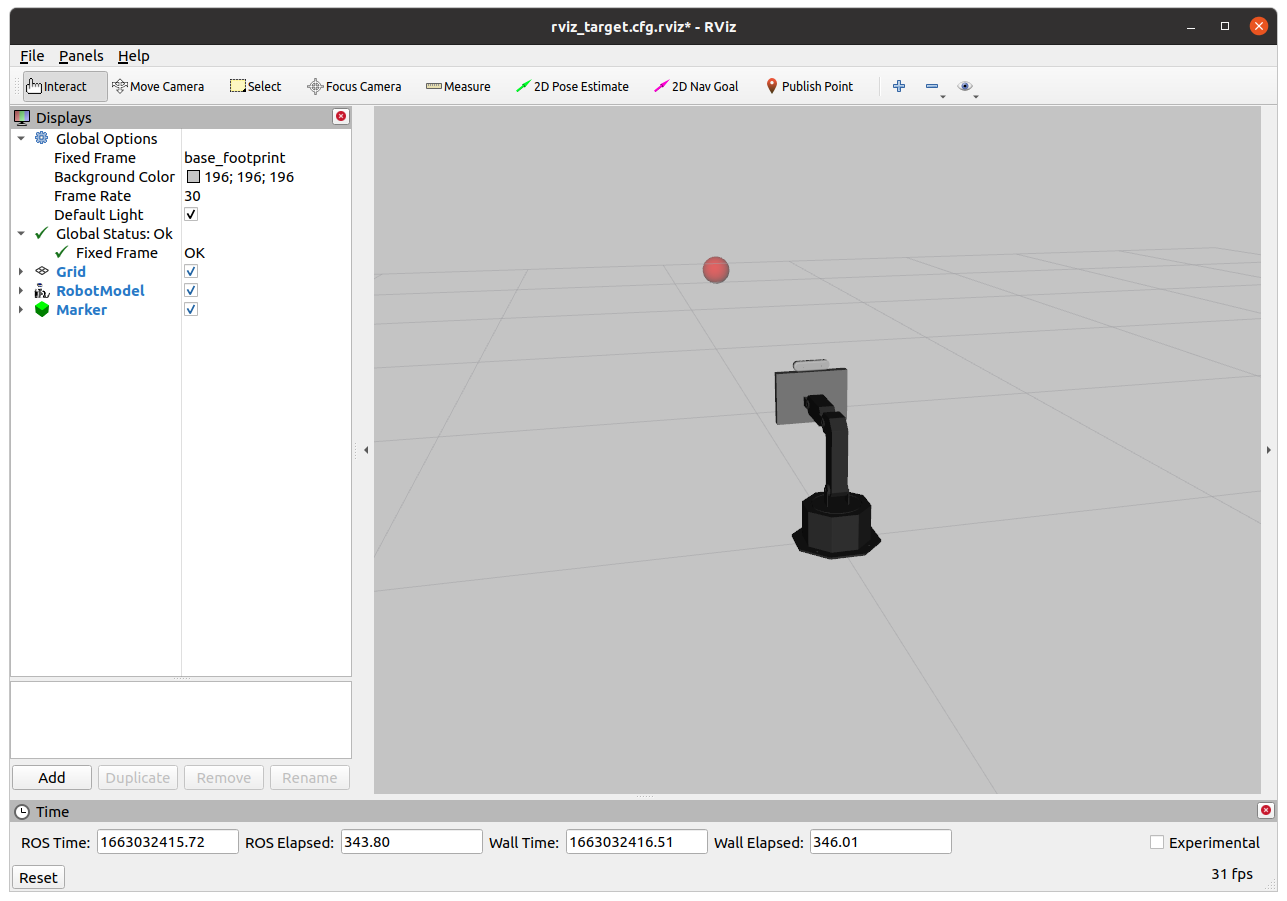
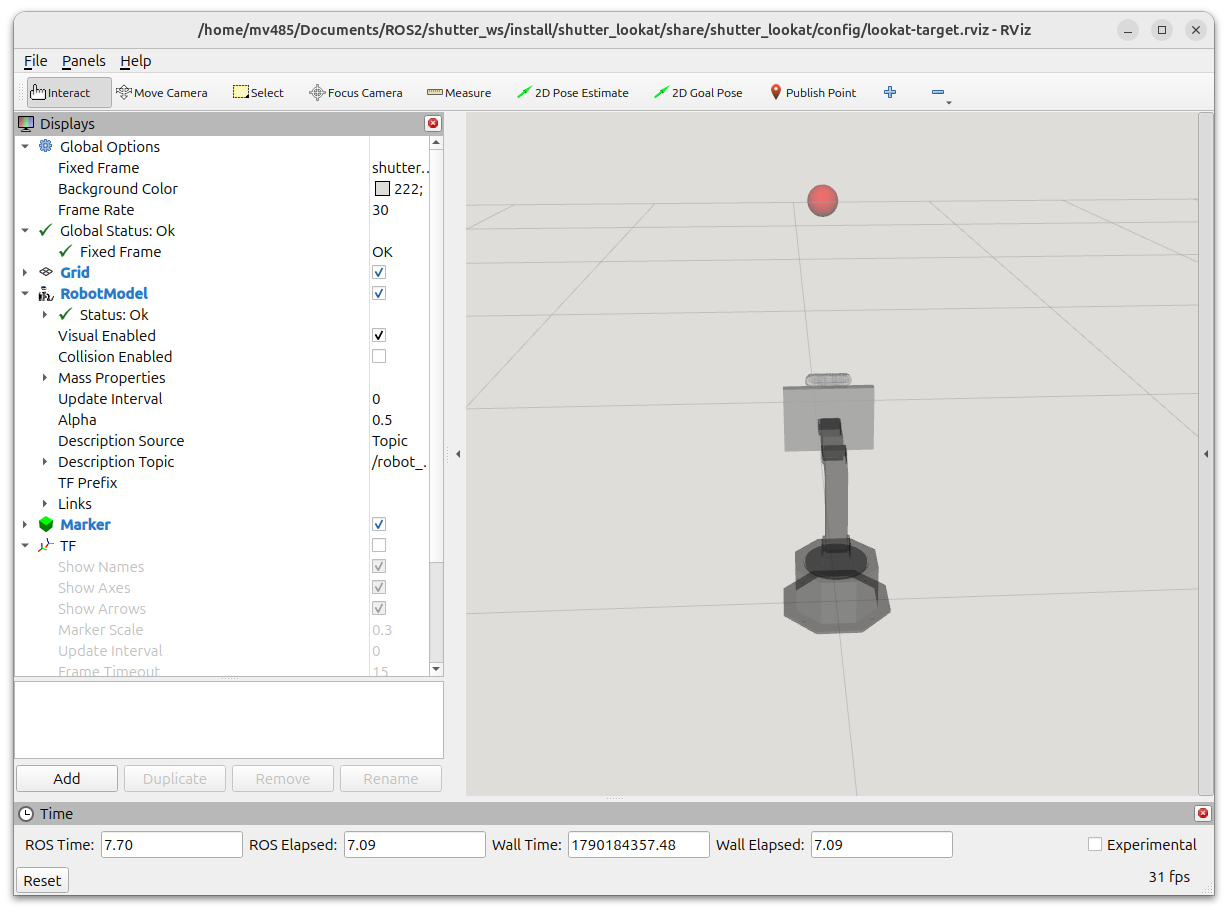
updated rviz config

diff --git a/assignment-1/shutter_lookat/launch/generate_target.launch.py b/assignment-1/shutter_lookat/launch/generate_target.launch.py
@@ -12,8 +12,9 @@ publishing timer is driven by the same clock. Without it the target would be
 stamped in wall time while the robot's transforms carry simulated time, and RViz
 would drop the marker as an extrapolation error.
 
-RViz comes from start_sim.launch.py, whose config/shutter-model.rviz already
-subscribes to /target_marker, so the target shows up without a second RViz here.
+RViz comes from start_sim.launch.py, which is handed config/lookat-target.rviz
+here -- that config already subscribes to /target_marker, so the target shows up
+without a second RViz.
 
 Usage:
     ros2 launch shutter_lookat generate_target.launch.py
@@ -68,6 +69,17 @@ def generate_launch_description():
         description='1.0 is real time; higher runs the physics faster than real time.'
     )
 
+    rviz_config_arg = DeclareLaunchArgument(
+        'rviz_config',
+        default_value=PathJoinSubstitution([
+            FindPackageShare('shutter_lookat'),
+            'config',
+            'lookat-target.rviz'
+        ]),
+        description='RViz display config passed to start_sim.launch.py. Defaults '
+                    'to the lookat-target config in this package.'
+    )
+
     # MuJoCo simulation plus RViz. This brings up robot_state_publisher and the
     # joint_state_broadcaster through ros2_control, so /joint_states and the TF
     # tree are already published -- a joint_state_publisher here would fight them
@@ -84,6 +96,7 @@ def generate_launch_description():
         launch_arguments={
             'headless': LaunchConfiguration('headless'),
             'sim_speed_factor': LaunchConfiguration('sim_speed_factor'),
+            'rviz_config': LaunchConfiguration('rviz_config'),
         }.items()
     )
 
@@ -117,6 +130,7 @@ def generate_launch_description():
         publish_rate_arg,
         headless_arg,
         sim_speed_factor_arg,
+        rviz_config_arg,
         sim_launch,
         generate_target_node,
         look_forward_node,
